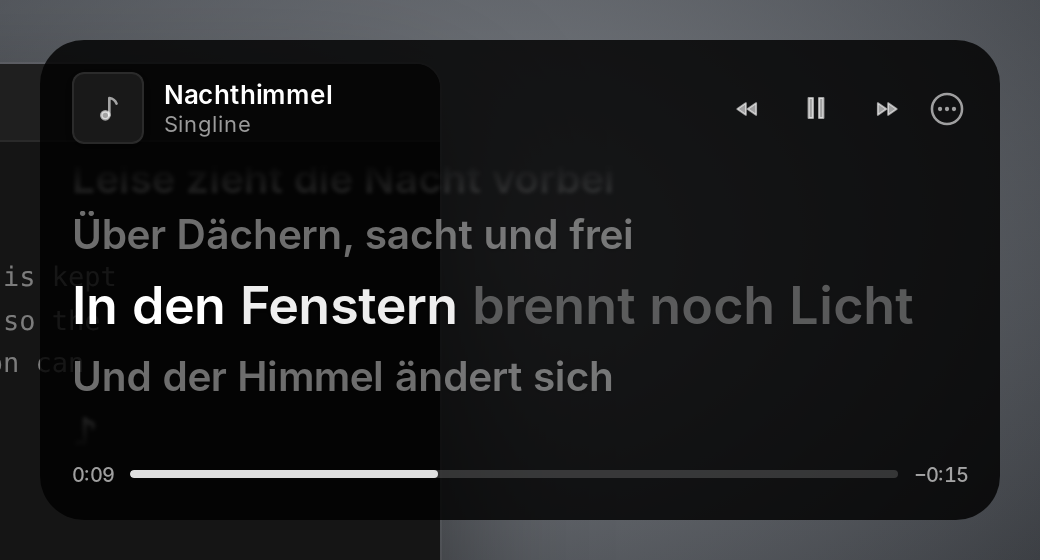
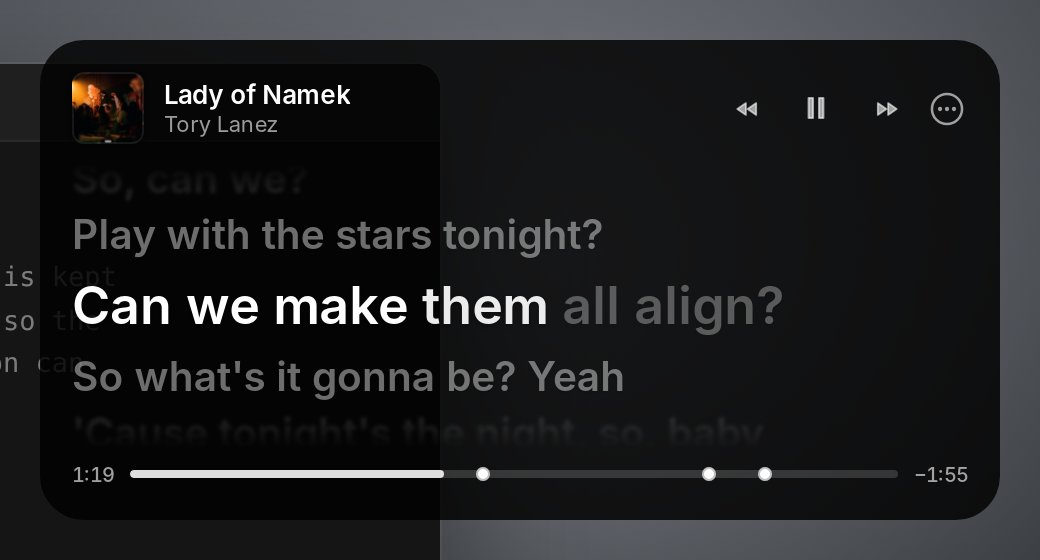
docs: show Lady of Namek in every screenshot, in full resolution

diff --git a/README.md b/README.md
@@ -50,9 +50,9 @@ For Spotify, Apple Music, Amazon Music and YouTube Music, on Windows, macOS and 
 
 <p align="center"><img src="docs/images/karaoke.gif" width="900" alt="Karaoke mode playing Lady of Namek by Tory Lanez: large white lines on black, the current line lighting up word by word, the next lines waiting below"><br><sub>Karaoke mode for a second screen or a TV.</sub></p>
 
-<p align="center"><img src="docs/images/mini-player.png" width="440" alt="The mini-player: previous, pause and next next to the title, and a seek bar with elapsed and remaining time"><br><sub>Move the pointer over the overlay for the mini-player.</sub></p>
+<p align="center"><img src="docs/images/mini-player.png" width="440" alt="The mini-player over Lady of Namek by Tory Lanez: previous, pause and next next to the cover and title, and a seek bar with chorus markers and times"><br><sub>Move the pointer over the overlay for the mini-player.</sub></p>
 
-<img src="docs/images/settings.png" width="880" alt="The settings window with a sidebar and its four panes: General (player, auto-hide, open at login, language, shortcut), Appearance (layout, font size, opacity, size), Song &amp; timing (corrections, online search, your own lyrics) and About">
+<img src="docs/images/settings.png" width="880" alt="The settings window with a sidebar: General (player, browser extension, auto-hide, open at login, language, shortcut), Appearance (layout, font size, opacity, size), Song &amp; timing (Lady of Namek by Tory Lanez with its timing correction and your own lyrics) and Spotify">
 
 ## Supported players
 
